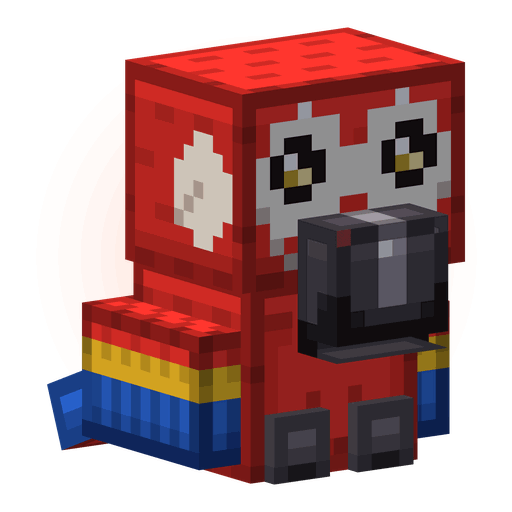
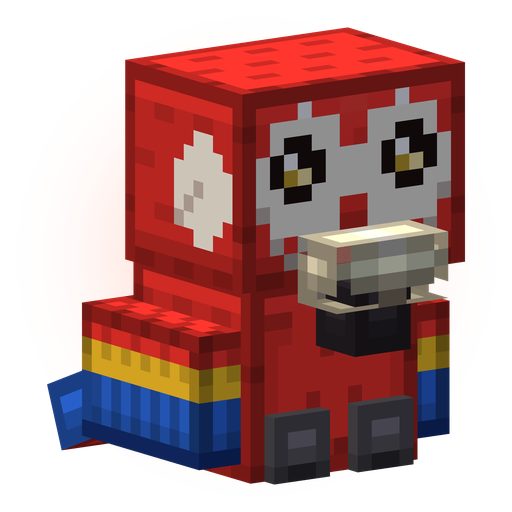
WIP: parrot polish in progress
Claude-Session: https://claude.ai/code/session_01XAvU4JR7z2AbAsiR7x9aAL

Changed region(s): [[0.5625, 0.375, 0.875, 0.7188]]

diff --git a/scripts/build-cosmetics.py b/scripts/build-cosmetics.py
@@ -4795,7 +4795,7 @@ item("ember_fox", "Ember Fox", "PET", "REGULAR", 600,
 # -------- Jungle Parrot: the classic shoulder pet, scarlet with yellow and blue wings, a white face and a hooked beak
 
 PAR_RED, PAR_RED_D, PAR_YEL, PAR_BLUE, PAR_BLUE_D = "#e8302a", "#a01818", "#ffc828", "#2a68e0", "#183c9a"
-PAR_FACE, PAR_BEAK, PAR_BEAK_D, PAR_FEET = "#f8f2e8", "#4a4450", "#26222a", "#6a666e"
+PAR_FACE, PAR_BEAK, PAR_BEAK_D, PAR_FEET = "#f8f2e8", "#efe2c2", "#2e282e", "#6a666e"
 PARROT = PERCH
 
 
@@ -4832,23 +4832,28 @@ def par_head(face, A):
 
 
 def par_beak(face, A):
-    """The big hooked beak: dark horn with a lighter ridge, curving down to a point; the lower jaw tucked behind."""
-    xs = (A.x + 0.5) / A.w
-    ys = (A.y + 0.5) / A.h
-    if face == "north":                        # 8 x 8: the hook narrows to a point at the bottom middle
-        hook = np.abs(xs - 0.5) < 0.5 - np.clip(ys - 0.4, 0, 1) * 0.9
-        A.put(~hook & (ys > 0.4), PAR_BEAK_D)
-        A.put(hook & (ys > 0.7), "#1e1a20")
-        A.put((np.abs(xs - 0.5) < 0.13) & (ys < 0.62), "#9a929e")
-        A.pix([(3, 1)], "#d8d2dc")
-        A.clip(~((ys < 0.15) & ((A.x == 0) | (A.x == A.w - 1))) & (hook | (ys < 0.9)))
-    elif face in ("east", "west"):             # 4 x 8: the curve of the upper beak over the jaw
-        zs = xs if face == "west" else 1 - xs
-        A.put((ys > 0.5) & (zs > 0.5), PAR_BEAK_D)
-        A.put((ys > 0.7) & (zs <= 0.5), "#1e1a20")
-        A.clip(~((ys > 0.85) & (zs > 0.5)))
+    """The upper mandible: pale horn with a light ridge, curving down to a hooked tip in the middle."""
+    if face == "north":                        # 8 x 4: full width at the top, narrowing to a 2 px hook
+        keep = ((A.y <= 1) & ~((A.y == 0) & ((A.x == 0) | (A.x == A.w - 1)))) \
+            | ((A.y == 2) & (A.x >= 1) & (A.x <= A.w - 2)) | ((A.y == 3) & (A.x >= 3) & (A.x <= 4))
+        A.put((A.y >= 2), shade(PAR_BEAK, 0.86))
+        A.put((A.y == 3), "#a89880")
+        A.pix([(3, 0), (4, 0)], "#fffaf0")
+        A.clip(keep)
+    elif face in ("east", "west"):             # 4 x 4: the curve of the hook at the front, open below at the back
+        zs = (A.x + 0.5) / A.w if face == "west" else 1 - (A.x + 0.5) / A.w
+        A.put(A.y >= 2, shade(PAR_BEAK, 0.86))
+        A.clip(~((A.y == 3) & (zs > 0.5)) & ~((A.y == 0) & (zs < 0.3)))
     elif face == "top":
-        A.put(np.abs(xs - 0.5) < 0.13, "#9a929e")
+        A.put((A.x >= 3) & (A.x <= 4), "#fffaf0")
+    elif face == "bottom":
+        A.fill(shade(PAR_BEAK, 0.7))
+
+
+def par_jaw(face, A):
+    """The lower mandible: dark, tucked in under the hook."""
+    if face == "north":
+        A.pix([(1, 0), (2, 0)], "#4a444c")
 
 
 def par_wing(face, A):
@@ -4895,7 +4900,8 @@ def parrot_pet():
         PC(a, (0.25, -1, -1.5), (1, 1, 1), px(PAR_FEET, par_foot))])
     head = Bone("head", "root", P(a, 0, -3, -0.25), cubes=[
         PC(a, (-2, -6, -1.75), (4, 3, 3), px(PAR_RED, par_head)),
-        PC(a, (-1, -4, -2.75), (2, 2, 1), px(PAR_BEAK, par_beak))],
+        PC(a, (-1, -3.75, -2.75), (2, 1, 1), px(PAR_BEAK, par_beak)),
+        PC(a, (-0.5, -3, -2.5), (1, 1, 1), px(PAR_BEAK_D, par_jaw))],
         anim={"type": "pet_head", "amp": 16}, parent="parrot")
     lids = blink_bone("lids", "head", a, (-1.5, -5.25, -1.77), (3, 1, 0), lid_paint(PAR_FACE, [(0, 4), (8, 4)], PAR_RED_D))
     wing = Bone("wing_r", "root", P(a, -1.5, -2, -0.75), cubes=[
